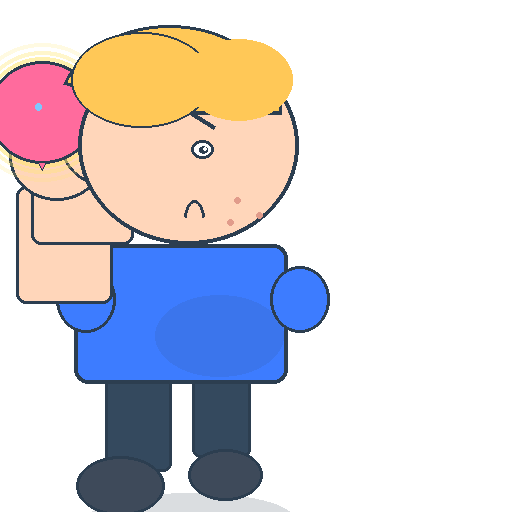
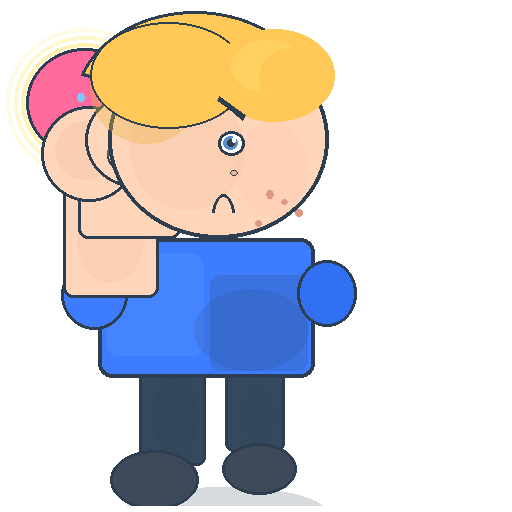
feat: swap mild turn yaws for the Studio HQ set (#36)
Replace the 16 turn drafts and 4 charge drafts with the higher-quality
mild set. Aim sweep stays 30l, 15l, charge, 15r, 30r. Build 0.1.0+9.

Changed region(s): [[0.0, 0.0, 0.7188, 1.0], [0.25, 0.375, 0.2812, 0.4062]]

diff --git a/docs/STATUS.md b/docs/STATUS.md
@@ -46,9 +46,9 @@ All under `assets/images/ui/`. Shared language: ink `#2C3E50` ~4–6px outline, 
 
 ---
 
-## Character pose pack — polish pass 2026-10-01, mild turn yaws 2026-10-07
+## Character pose pack — polish pass 2026-10-01, HQ mild turn yaws 2026-10-07
 
-All 512×512 RGBA. Player faces RIGHT (blue `#3D7CFF`); enemy faces LEFT (violet `#9B59B6`). Outline `#2C3E50` ~3–4px. Winter = coat+beanie+pom; summer = tee (balloon projectile on charge/throw). Soft ground contact shadow + 1 soft body shade plane. Mild aim yaws are Studio drafts (`docs/TURN_YAWS.md`). The player-winter contact sheet is `assets/images/characters/turn_yaw_sheet_mild.png`.
+All 512×512 RGBA. Player faces RIGHT (blue `#3D7CFF`); enemy faces LEFT (violet `#9B59B6`). Outline `#2C3E50` ~3–4px. Winter = coat+beanie+pom; summer = tee (balloon projectile on charge/throw). Soft ground contact shadow + 1 soft body shade plane. Mild aim yaws are the Studio HQ drafts (`docs/TURN_YAWS.md`). The player-winter contact sheet is `assets/images/characters/turn_yaw_sheet_hq.png`. `turn_yaw_sheet_mild.png` stays as the older reference.
 
 ### Player (`assets/images/characters/player/`)
 
@@ -58,8 +58,8 @@ All 512×512 RGBA. Player faces RIGHT (blue `#3D7CFF`); enemy faces LEFT (violet
 | `player_idle_summer_draft.png` | **improved draft** | Tee variant; re-exported |
 | `player_walk_winter_draft.png` | **new draft** | Mid-stride, opposite arm/leg |
 | `player_walk_summer_draft.png` | **new draft** | Same arc, summer tee |
-| `player_charge_winter_draft.png` | **new draft** | Lean back, snowball + yellow charge glow |
-| `player_charge_summer_draft.png` | **new draft** | Lean back, water balloon + glow |
+| `player_charge_winter_draft.png` | **HQ draft** | Aim-sweep center. Lean back, snowball + yellow charge glow. Same HQ path as the turn yaws |
+| `player_charge_summer_draft.png` | **HQ draft** | Aim-sweep center. Lean back, water balloon + glow |
 | `player_throw_winter_draft.png` | **improved draft** | Follow-through forward; re-exported |
 | `player_throw_summer_draft.png` | **new draft** | Follow-through + balloon |
 | `player_hit_winter_draft.png` | **new draft** | Recoil, X-eye, impact stars |
@@ -68,14 +68,14 @@ All 512×512 RGBA. Player faces RIGHT (blue `#3D7CFF`); enemy faces LEFT (violet
 | `player_ko_summer_draft.png` | **new draft** | Slump + swirl + stars, tee |
 | `player_pickup_winter_draft.png` | **playtest draft** | Selected / held-up pose (Studio) |
 | `player_pickup_summer_draft.png` | **playtest draft** | Selected / held-up pose, tee |
-| `player_turn_30l_winter_draft.png` | **playtest draft** | Up-screen end of the aim sweep, ~30° screen-left (Studio) |
-| `player_turn_30l_summer_draft.png` | **playtest draft** | Same yaw, tee |
-| `player_turn_15l_winter_draft.png` | **playtest draft** | Milder screen-left, between 30l and the charge pose |
-| `player_turn_15l_summer_draft.png` | **playtest draft** | Same yaw, tee |
-| `player_turn_15r_winter_draft.png` | **playtest draft** | Milder screen-right, between the charge pose and 30r |
-| `player_turn_15r_summer_draft.png` | **playtest draft** | Same yaw, tee |
-| `player_turn_30r_winter_draft.png` | **playtest draft** | Down-screen end of the aim sweep, ~30° screen-right (Studio) |
-| `player_turn_30r_summer_draft.png` | **playtest draft** | Same yaw, tee |
+| `player_turn_30l_winter_draft.png` | **HQ playtest draft** | Up-screen end of the aim sweep, ~30° screen-left (Studio) |
+| `player_turn_30l_summer_draft.png` | **HQ playtest draft** | Same yaw, tee |
+| `player_turn_15l_winter_draft.png` | **HQ playtest draft** | Milder screen-left, between 30l and the charge pose |
+| `player_turn_15l_summer_draft.png` | **HQ playtest draft** | Same yaw, tee |
+| `player_turn_15r_winter_draft.png` | **HQ playtest draft** | Milder screen-right, between the charge pose and 30r |
+| `player_turn_15r_summer_draft.png` | **HQ playtest draft** | Same yaw, tee |
+| `player_turn_30r_winter_draft.png` | **HQ playtest draft** | Down-screen end of the aim sweep, ~30° screen-right (Studio) |
+| `player_turn_30r_summer_draft.png` | **HQ playtest draft** | Same yaw, tee |
 
 ### Enemy (`assets/images/characters/enemy/`)
 
@@ -85,8 +85,8 @@ All 512×512 RGBA. Player faces RIGHT (blue `#3D7CFF`); enemy faces LEFT (violet
 | `enemy_idle_summer_draft.png` | **new draft** | Violet tee |
 | `enemy_walk_winter_draft.png` | **new draft** | Mid-stride mirror |
 | `enemy_walk_summer_draft.png` | **new draft** | Mid-stride, summer |
-| `enemy_charge_winter_draft.png` | **new draft** | Lean back + snowball + glow |
-| `enemy_charge_summer_draft.png` | **new draft** | Lean back + balloon + glow |
+| `enemy_charge_winter_draft.png` | **HQ draft** | Aim-sweep center. Lean back + snowball + glow. Drawn facing left |
+| `enemy_charge_summer_draft.png` | **HQ draft** | Aim-sweep center. Lean back + balloon + glow |
 | `enemy_throw_winter_draft.png` | **improved draft** | Follow-through; re-exported |
 | `enemy_throw_summer_draft.png` | **new draft** | Follow-through + balloon |
 | `enemy_hit_winter_draft.png` | **new draft** | Recoil + stars |
@@ -95,14 +95,14 @@ All 512×512 RGBA. Player faces RIGHT (blue `#3D7CFF`); enemy faces LEFT (violet
 | `enemy_ko_summer_draft.png` | **new draft** | Slump + swirl, tee |
 | `enemy_pickup_winter_draft.png` | **playtest draft** | Held-up pose, loaded with the enemy sheet |
 | `enemy_pickup_summer_draft.png` | **playtest draft** | Held-up pose, tee |
-| `enemy_turn_30l_winter_draft.png` | **playtest draft** | Up-screen end. Drawn facing left; not a mirror of the player sheet |
-| `enemy_turn_30l_summer_draft.png` | **playtest draft** | Same yaw, tee |
-| `enemy_turn_15l_winter_draft.png` | **playtest draft** | Milder screen-left |
-| `enemy_turn_15l_summer_draft.png` | **playtest draft** | Same yaw, tee |
-| `enemy_turn_15r_winter_draft.png` | **playtest draft** | Milder screen-right |
-| `enemy_turn_15r_summer_draft.png` | **playtest draft** | Same yaw, tee |
-| `enemy_turn_30r_winter_draft.png` | **playtest draft** | Down-screen end. Drawn facing left; not mirrored |
-| `enemy_turn_30r_summer_draft.png` | **playtest draft** | Same yaw, tee |
+| `enemy_turn_30l_winter_draft.png` | **HQ playtest draft** | Up-screen end. Drawn facing left; not a mirror of the player sheet |
+| `enemy_turn_30l_summer_draft.png` | **HQ playtest draft** | Same yaw, tee |
+| `enemy_turn_15l_winter_draft.png` | **HQ playtest draft** | Milder screen-left |
+| `enemy_turn_15l_summer_draft.png` | **HQ playtest draft** | Same yaw, tee |
+| `enemy_turn_15r_winter_draft.png` | **HQ playtest draft** | Milder screen-right |
+| `enemy_turn_15r_summer_draft.png` | **HQ playtest draft** | Same yaw, tee |
+| `enemy_turn_30r_winter_draft.png` | **HQ playtest draft** | Down-screen end. Drawn facing left; not mirrored |
+| `enemy_turn_30r_summer_draft.png` | **HQ playtest draft** | Same yaw, tee |
 
 ---
 

diff --git a/docs/TURN_YAWS.md b/docs/TURN_YAWS.md
@@ -2,23 +2,26 @@
 
 **Status:** Ethan-approved direction — mild yaws only (no front/back). Regenerator: `scripts/generate_turn_yaws.py`.
 
+**HQ regen (Ethan):** higher-quality kid so aim-sweep turn direction is unmistakable at phone scale — softer 1–2 plane shading (coat/skin/hair), clearer iris+highlight eye / brow / freckles, distinct near vs far shoulder / chest planes, hands reading as holding the projectile with projectile tracking yaw, hat/hair silhouette that turns with yaw. Default charge drafts regenerated from the same HQ path so the sweep center matches the turn set. Contact sheet: `turn_yaw_sheet_hq.png`.
+
 ## Default facing (unchanged)
 
-Existing charge / idle sheets already face **across the yard**:
+Existing charge / idle sheets face **across the yard**:
 
 | Role  | Default look | Screen |
 |-------|--------------|--------|
 | Player | `+x` (right) | looking right toward enemy fort |
 | Enemy  | `−x` (left)  | looking left toward player fort |
 
-**Do not regenerate default.** Keep `*_charge_*` / idle as the center of the aim sweep. Do **not** mirror player sprites for enemy (mirroring points them at their own fort). Enemy sheets use `face_sign = −1` the same way as `generate_poses_polish.py`.
+Default **charge** is the aim-sweep center and is regenerated by `generate_turn_yaws.py` (HQ) so quality matches the turn frames. Other poses stay in `generate_poses_polish.py`. Do **not** mirror player sprites for enemy (mirroring points them at their own fort). Enemy sheets use `face_sign = −1` the same way as polish.
 
 ## Mild yaw assets
 
-Sixteen drafts at `512×512` transparent PNG:
+Sixteen turn drafts + four matching HQ charge drafts at `512×512` transparent PNG:
 
 ```
 characters/{player|enemy}/{player|enemy}_turn_{30l|15l|15r|30r}_{winter|summer}_draft.png
+characters/{player|enemy}/{player|enemy}_charge_{winter|summer}_draft.png
 ```
 
 Angles are **relative to that kid’s default across-yard facing**, named by **screen-left / screen-right**:
@@ -34,7 +37,7 @@ Angles are **relative to that kid’s default across-yard facing**, named by **s
 ### Aim-sweep order (left → right along the row)
 
 ```
-30l → 15l → (existing charge / default) → 15r → 30r
+30l → 15l → (HQ charge / default) → 15r → 30r
 ```
 
 Visual deltas are **exaggerated for phone readability** (still the same mild-angle contract): eye placement (incl. a small second-eye peek on `30l` only), hair / pom / bangs shift, shoulder / chest bias, projectile clearly left/right of head, body lean + foot plant. Kids stay **profile-ish / mild ¾ across the yard** — never full frontal, never back-of-coat.
@@ -45,11 +48,22 @@ Visual deltas are **exaggerated for phone readability** (still the same mild-ang
 - **Never** show the back of the coat (old `back`).
 - Obsolete `turn_front_*`, `turn_back_*`, and `turn_quarter_*` drafts are removed; do not reintroduce them.
 - Winter = coat + pom + snowball; summer = tee + water balloon. Same silhouette / outline weight as STYLE.md.
+- Palette: outline `#2C3E50`, player `#3D7CFF` / sandy hair `#FFC857`, enemy `#9B59B6` / dark hair.
 
 ## Contact sheet
 
-Player winter strip for review:
+Player winter strip for review (HQ):
 
-`assets/images/characters/turn_yaw_sheet_mild.png`
+`assets/images/characters/turn_yaw_sheet_hq.png`
 
 Labels left → right: `30l`, `15l`, `default`, `15r`, `30r`.
+
+(Previous mild sheet `turn_yaw_sheet_mild.png` may remain as an older reference.)
+
+## Regen
+
+```bash
+/workspace/.venv-art/bin/python scripts/generate_turn_yaws.py
+```
+
+Writes 16 turn PNGs + 4 HQ charge PNGs + `turn_yaw_sheet_hq.png`.

diff --git a/PROGRESS.md b/PROGRESS.md
@@ -1,6 +1,6 @@
 # Backyard Barrage progress
 
-Flutter + Flame landscape arena game (winter snowballs / summer water balloons), publisher GameLogic / Ethan. Version `0.1.0+8`. This file tracks leftovers so agents do not drop them.
+Flutter + Flame landscape arena game (winter snowballs / summer water balloons), publisher GameLogic / Ethan. Version `0.1.0+9`. This file tracks leftovers so agents do not drop them.
 
 ## Shipped
 
@@ -26,7 +26,7 @@ Playable MVP loop on the gameplay branch:
 
 Document out-of-scope bugs, doc drift, and follow-ups here. Add a row when you notice something you are not fixing in the current PR. Remove or rewrite a row when it is actually fixed.
 
-- **Mild turn-yaw regenerator is not in the repo.** `docs/TURN_YAWS.md` names `scripts/generate_turn_yaws.py`. Studio delivered the sixteen drafts and `turn_yaw_sheet_mild.png`. The pose scripts do not redraw those yaws.
+- **HQ turn-yaw regenerator is not in the repo.** `docs/TURN_YAWS.md` names `scripts/generate_turn_yaws.py` as the writer of the 16 turn drafts, the 4 HQ charge drafts, and `turn_yaw_sheet_hq.png`. Studio delivered those binaries. `scripts/generate_poses_polish.py` still paints `charge` and would overwrite the HQ charge drafts if re-run. The pose scripts do not redraw the yaws.
 - **Enemy fort has no HUD meter.** The enemy fort uses the stage-1 art and shows damage on the sprite. Hearts, coins, and the player fort bar are the screen-space meters.
 - **Old flightVisualY hump is still unused.** Live snowballs draw `loftAt` on the ground track (a 64px climb and drop). `flightVisualY` / `_visualHump` still peaks around 40–120px, but current lobs set `groundTrack` and do not draw that path.
 - **KO, wave-clear, and wave-intro banners still scale with the yard.** The short center banner is drawn in the 1280×720 world, so it shrinks with the letterbox. Hearts, coins, fort, wave, hint, and Pause are screen-space.
